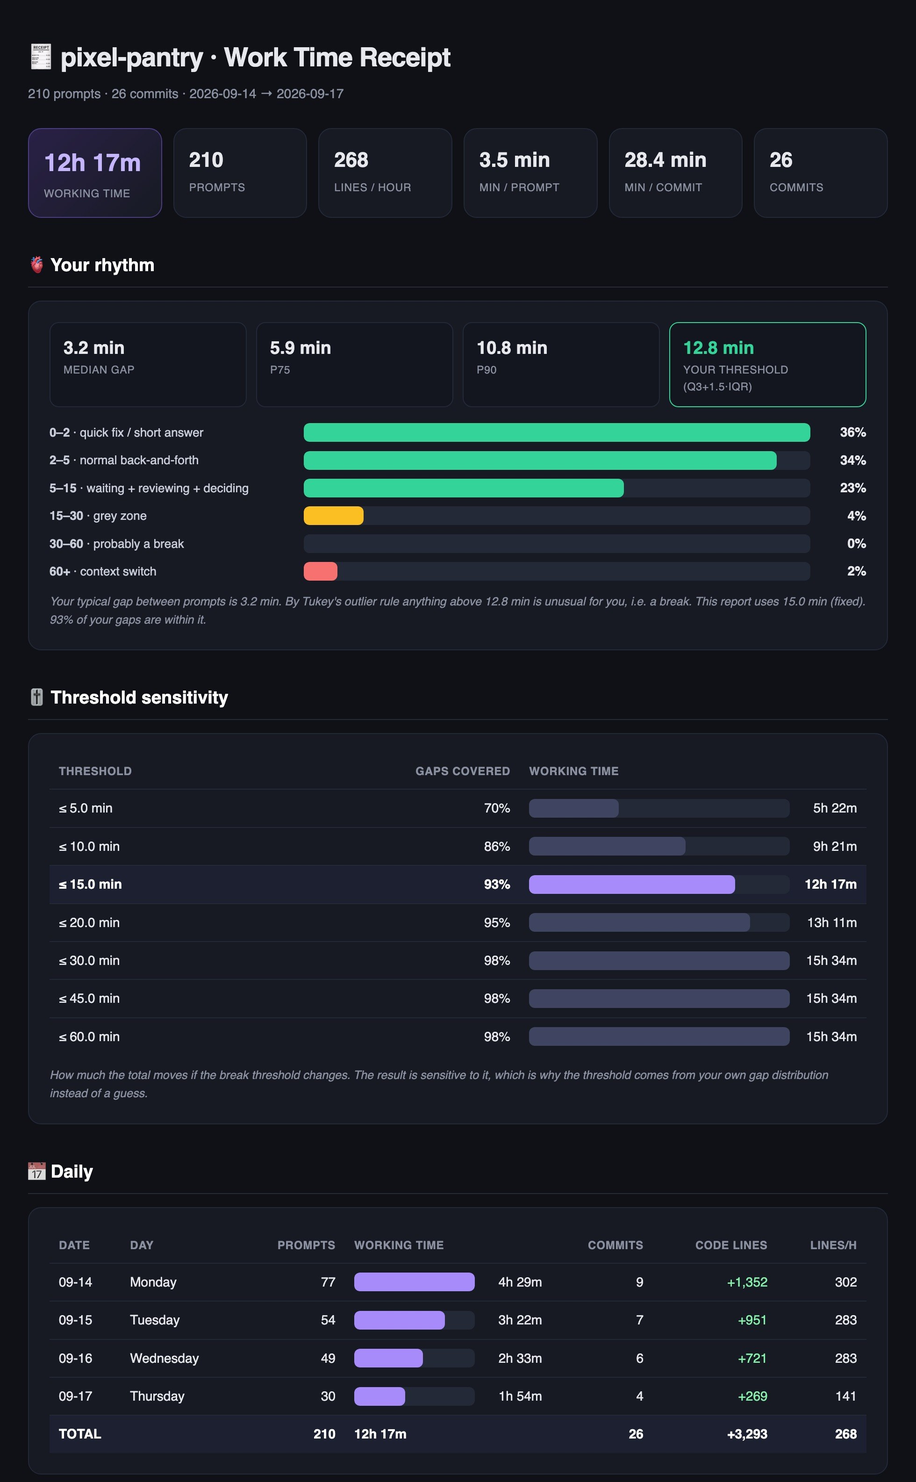
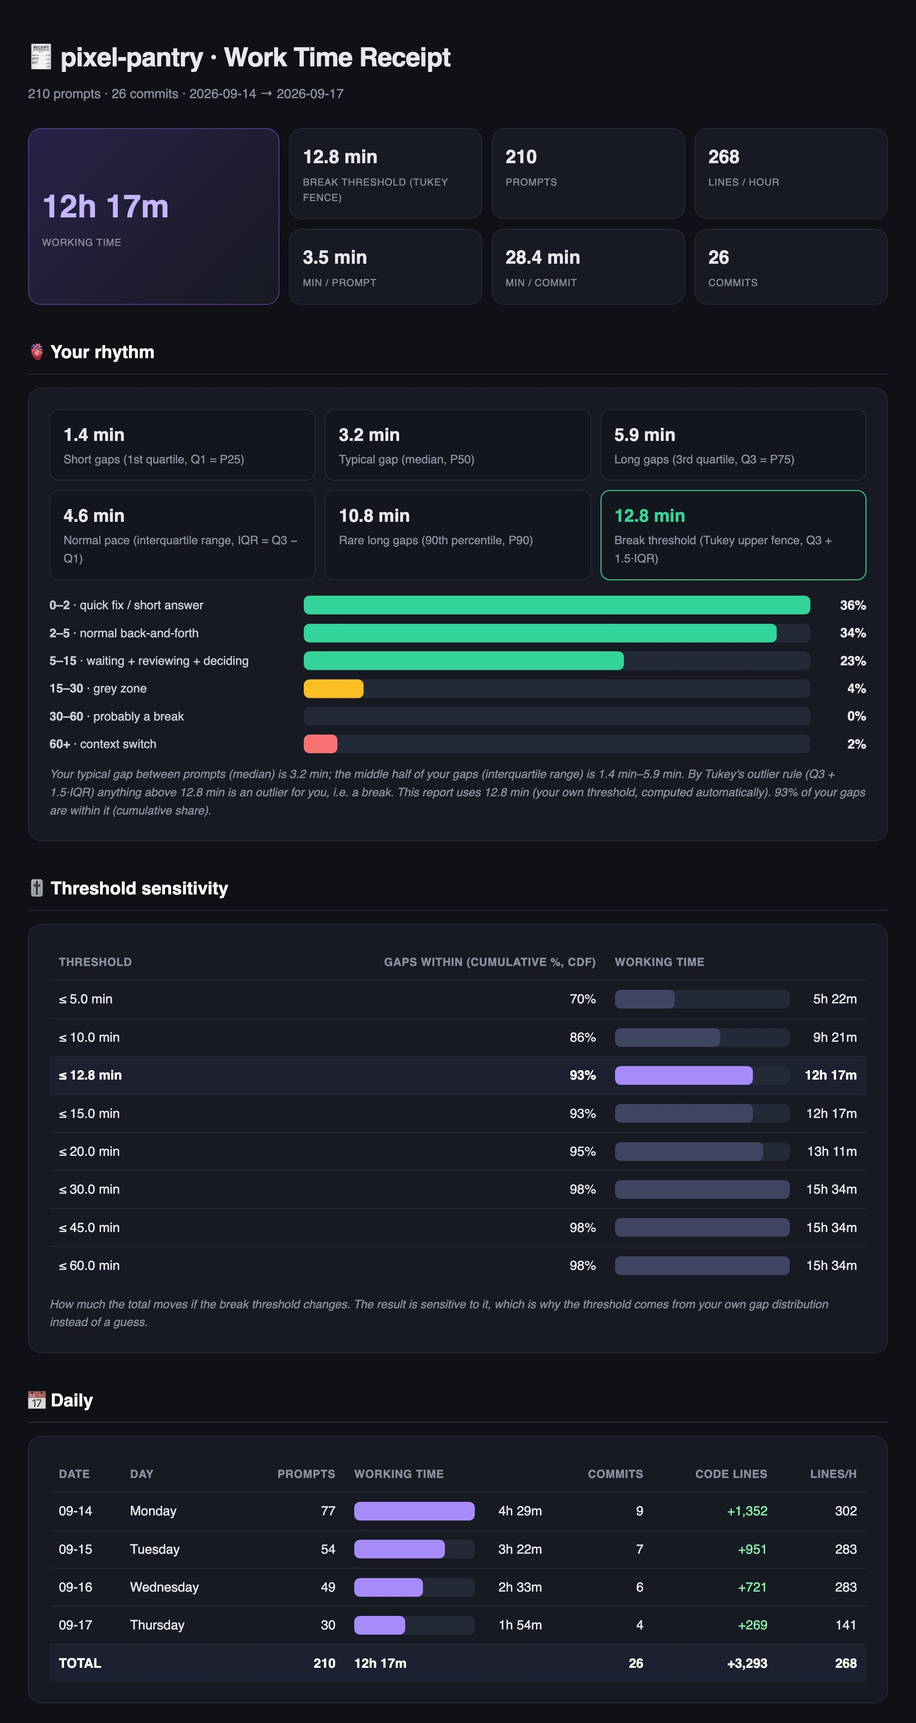
feat: compute the break threshold from the user's own rhythm
- default --idle is now automatic: Tukey upper fence (Q3 + 1.5·IQR) of the
  gaps between prompts; falls back to 15 min with fewer than 20 gaps
- report and console say which threshold was used and why, and print the
  sensitivity (5 → 60 min) so the user can pick another with --idle MIN
- every statistic is labelled with its mathematical name (median/P50,
  quartiles, IQR, P90, Tukey fence, CDF); skill instructed to do the same
- KPI layout: large working-time card + 3×2 grid

diff --git a/skills/vibe-receipts/scripts/receipts.py b/skills/vibe-receipts/scripts/receipts.py
@@ -2,19 +2,21 @@
 """vibe-receipts — how many hours did you really work on a git repo with Claude?
 
 Working time = sum of the gaps between YOUR consecutive prompts in Claude Code session
-logs (~/.claude/projects), where a gap of at most IDLE minutes (default 15) counts as work
-and anything longer is a break. Commits only add context (what got built). For repos with
+logs (~/.claude/projects). A gap up to your break threshold counts as work, anything longer
+is a break. By default the threshold is computed from your own gaps with Tukey's rule
+(Q3 + 1.5·IQR); pass --idle MIN to use a fixed one. Commits only add context (what got built). For repos with
 no session logs, a rough commit-gap estimate is used as a fallback.
 
 Usage:
   python3 receipts.py /path/to/repo
   python3 receipts.py /path/to/repo --since 2026-06-01 --until 2026-06-30
-  python3 receipts.py /path/to/repo --idle auto     # use your own Tukey threshold
+  python3 receipts.py /path/to/repo --idle 20       # fixed 20-minute break threshold
   python3 receipts.py /path/to/repo --lang tr       # Türkçe rapor
 """
 import argparse, datetime, glob, html, json, os, re, subprocess
 
-IDLE       = 15            # minutes: a gap between prompts up to this = work; above = break
+IDLE       = 15            # minutes: fallback threshold when there are too few gaps for Tukey
+MIN_GAPS   = 20            # fewer gaps than this = Tukey threshold is not reliable
 SENS       = [5,10,15,20,30,45,60]   # thresholds shown in the sensitivity table
 BANDS      = [(0,2),(2,5),(5,15),(15,30),(30,60),(60,None)]
 
@@ -48,11 +50,14 @@ L={
    title='Work Time Receipt',commits='commits',prompts='prompts',
    k_time='Working time',k_prompts='Prompts',k_lph='Lines / hour',k_mpp='Min / prompt',k_mpc='Min / commit',k_com='Commits',
    s_rhythm='🫀 Your rhythm',
-   r_med='Median gap',r_p75='P75',r_p90='P90',r_tukey='Your threshold (Q3+1.5·IQR)',
-   r_note='Your typical gap between prompts is {med}. By Tukey\'s outlier rule anything above {tukey} is unusual for you, i.e. a break. This report uses {idle} ({mode}). {pct}% of your gaps are within it.',
-   mode_fixed='fixed',mode_auto='your own threshold',
+   r_q1='Short gaps (1st quartile, Q1 = P25)',r_med='Typical gap (median, P50)',r_q3='Long gaps (3rd quartile, Q3 = P75)',
+   r_iqr='Normal pace (interquartile range, IQR = Q3 − Q1)',r_p90='Rare long gaps (90th percentile, P90)',
+   r_tukey='Break threshold (Tukey upper fence, Q3 + 1.5·IQR)',
+   r_note='Your typical gap between prompts (median) is {med}; the middle half of your gaps (interquartile range) is {q1}–{q3}. By Tukey\'s outlier rule (Q3 + 1.5·IQR) anything above {tukey} is an outlier for you, i.e. a break. This report uses {idle} ({mode}). {pct}% of your gaps are within it (cumulative share).',
+   mode_fixed='set by you',mode_auto='your own threshold, computed automatically',mode_few='default — too few prompts to compute your own',
+   k_thr='Break threshold (Tukey fence)',p_sens='Sensitivity',
    bands=['quick fix / short answer','normal back-and-forth','waiting + reviewing + deciding','grey zone','probably a break','context switch'],
-   s_sens='🎚 Threshold sensitivity',sens_c=['Threshold','Gaps covered','Working time'],
+   s_sens='🎚 Threshold sensitivity',sens_c=['Threshold','Gaps within (cumulative %, CDF)','Working time'],
    sens_note='How much the total moves if the break threshold changes. The result is sensitive to it, which is why the threshold comes from your own gap distribution instead of a guess.',
    s_daily='📅 Daily',c=['Date','Day','Prompts','Working time','Commits','Code lines','Lines/h'],tot='TOTAL',
    s_sum='📝 Daily commit log',
@@ -60,18 +65,21 @@ L={
    fb_note='Without session logs this is a rough estimate from gaps between commits (breaks >{b}m dropped) plus {r} min per effective added line. It tends to overestimate AI-heavy work.',
    k_est='Commit estimate',
    p_repo='Repo',p_range='Range',p_time='Working time',p_prompts='Prompts',p_commits='Commits',p_code='Effective code',p_lines='lines',
-   p_rhythm='Rhythm',p_est='Commit estimate (fallback)',p_none='No prompts in range — using the commit estimate.',
+   p_rhythm='Rhythm',rh='Q1 (1st quartile) {q1} · median (P50) {med} · Q3 (3rd quartile) {q3} · IQR (interquartile range) {iqr} · P90 {p90} · Tukey upper fence (Q3+1.5·IQR) {tk}  ({n} gaps)',p_est='Commit estimate (fallback)',p_none='No prompts in range — using the commit estimate.',
    e_none='No commits or prompts found in this range.'),
  'tr':dict(
    h='s',m='d',dow=['Pazartesi','Salı','Çarşamba','Perşembe','Cuma','Cumartesi','Pazar'],
    title='Çalışma Süresi Fişi',commits='commit',prompts='prompt',
    k_time='Çalışma süresi',k_prompts='Prompt',k_lph='Satır / saat',k_mpp='Dk / prompt',k_mpc='Dk / commit',k_com='Commit',
    s_rhythm='🫀 Çalışma ritmin',
-   r_med='Medyan aralık',r_p75='P75',r_p90='P90',r_tukey='Senin eşiğin (Q3+1,5·IQR)',
-   r_note='İki prompt arasındaki tipik aralığın {med}. Tukey aykırı değer kuralına göre {tukey} üstü senin için olağan dışı, yani mola. Bu rapor {idle} eşiğini kullanıyor ({mode}). Aralıklarının %{pct}\'i bu eşiğin içinde.',
-   mode_fixed='sabit',mode_auto='senin kendi eşiğin',
+   r_q1='Kısa aralıklar (1. çeyrek, Q1 = P25)',r_med='Tipik aralık (medyan / ortanca, P50)',r_q3='Uzun aralıklar (3. çeyrek, Q3 = P75)',
+   r_iqr='Normal tempo (çeyrekler arası aralık, IQR = Q3 − Q1)',r_p90='Nadir uzun aralıklar (90. yüzdelik, P90)',
+   r_tukey='Mola sınırı (Tukey üst çiti, Q3 + 1,5·IQR)',
+   r_note='İki prompt arasındaki tipik aralığın (medyan) {med}; aralıklarının ortadaki yarısı (çeyrekler arası aralık) {q1}–{q3}. Tukey aykırı değer kuralına göre (Q3 + 1,5·IQR) {tukey} üstü senin için aykırı değer, yani mola. Bu rapor {idle} eşiğini kullanıyor ({mode}). Aralıklarının %{pct}\'i bu eşiğin içinde (kümülatif oran).',
+   mode_fixed='senin seçtiğin',mode_auto='senin ritminden otomatik hesaplandı',mode_few='varsayılan — kendi eşiğini hesaplamak için prompt az',
+   k_thr='Mola sınırı (Tukey çiti)',p_sens='Duyarlılık',
    bands=['hızlı düzeltme / kısa cevap','normal etkileşim','bekleme + inceleme + karar','gri bölge','muhtemel mola','bağlam kopması'],
-   s_sens='🎚 Eşik duyarlılığı',sens_c=['Eşik','Kapsanan aralık','Çalışma süresi'],
+   s_sens='🎚 Eşik duyarlılığı',sens_c=['Eşik','Eşik altındaki aralıklar (kümülatif %, CDF)','Çalışma süresi'],
    sens_note='Mola eşiği değişirse toplam ne kadar oynar. Sonuç eşiğe hassas; bu yüzden eşik tahminle değil, senin kendi aralık dağılımından seçiliyor.',
    s_daily='📅 Günlük',c=['Tarih','Gün','Prompt','Çalışma','Commit','Kod satırı','Satır/s'],tot='TOPLAM',
    s_sum='📝 Günlük commit özeti',
@@ -79,7 +87,7 @@ L={
    fb_note='Oturum kaydı olmadığı için bu, commit\'ler arası süreden (>{b}dk molalar atılır) ve eklenen her etkin satıra {r} dk eklenerek yapılan kaba bir tahmin. AI ağırlıklı işte fazla gösterme eğilimindedir.',
    k_est='Commit tahmini',
    p_repo='Repo',p_range='Aralık',p_time='Çalışma süresi',p_prompts='Prompt',p_commits='Commit',p_code='Etkin kod',p_lines='satır',
-   p_rhythm='Ritim',p_est='Commit tahmini (yedek)',p_none='Aralıkta prompt yok — commit tahmini kullanılıyor.',
+   p_rhythm='Ritim',rh='Q1 (1. çeyrek) {q1} · medyan (P50) {med} · Q3 (3. çeyrek) {q3} · IQR (çeyrekler arası aralık) {iqr} · P90 {p90} · Tukey üst çiti (Q3+1,5·IQR) {tk}  ({n} aralık)',p_est='Commit tahmini (yedek)',p_none='Aralıkta prompt yok — commit tahmini kullanılıyor.',
    e_none='Bu aralıkta commit ya da prompt bulunamadı.'),
 }
 
@@ -175,7 +183,7 @@ def main():
     ap.add_argument('--until',default='9999-99-99',help='last day YYYY-MM-DD')
     ap.add_argument('--author',help='only commits by this author (git --author pattern)')
     ap.add_argument('--transcripts',action='append',help='Claude log folder (overrides auto-detection, repeatable)')
-    ap.add_argument('--idle',default=str(IDLE),help=f'break threshold in minutes, or "auto" for your own Tukey threshold (default {IDLE})')
+    ap.add_argument('--idle',default='auto',help='break threshold in minutes; default "auto" = your own Tukey threshold (Q3+1.5·IQR)')
     ap.add_argument('--lang',choices=sorted(L),default=default_lang(),help='report language (default: from $LANG, else en)')
     ap.add_argument('--name',help='project name shown in the report (default: repo folder name)')
     ap.add_argument('--out',default=os.path.expanduser('~/vibe-receipts'),help='output folder (default ~/vibe-receipts)')
@@ -199,8 +207,9 @@ def main():
     gaps=sorted((prompts[i]-prompts[i-1])/60 for i in range(1,len(prompts)))
     med,q1,q3,p90=pctl(gaps,50),pctl(gaps,25),pctl(gaps,75),pctl(gaps,90)
     tukey=q3+1.5*(q3-q1)
-    auto=a.idle.strip().lower()=='auto'
-    idle=(round(tukey,1) if gaps else IDLE) if auto else float(a.idle)
+    if a.idle.strip().lower()!='auto': mode,idle='fixed',float(a.idle)
+    elif len(gaps)>=MIN_GAPS:          mode,idle='auto',round(tukey,1)
+    else:                              mode,idle='few',float(IDLE)
 
     def active(thr):
         tot=0; per={}
@@ -242,8 +251,10 @@ def main():
     print(f"{T['p_repo']:<15}: {repo}")
     print(f"{T['p_range']:<15}: {d0} → {d1}")
     if has_p:
-        print(f"{T['p_time']:<15}: {hm(work)}   ({len(prompts)} {T['prompts']}, idle {idle:g}m, {len(dirs)} dir)")
-        print(f"{T['p_rhythm']:<15}: median {med:.1f}m · P75 {q3:.1f}m · P90 {p90:.1f}m · tukey {tukey:.1f}m")
+        print(f"{T['p_time']:<15}: {hm(work)}   ({len(prompts)} {T['prompts']}, {len(dirs)} dir)")
+        print(f"{T['k_thr']}: {mins(idle)}   ({T['mode_'+mode]})")
+        print(f"{T['p_rhythm']:<15}: "+T['rh'].format(q1=mins(q1),med=mins(med),q3=mins(q3),iqr=mins(q3-q1),p90=mins(p90),tk=mins(tukey),n=len(gaps)))
+        print(f"{T['p_sens']:<15}: "+' · '.join(f"{mins(t)} → {hm(active(t)[0])}" for t in sorted(set(SENS+[idle]))))
     else:
         print(T['p_none'])
         print(f"{T['p_est']:<15}: {hm(est)}")
@@ -258,7 +269,7 @@ def main():
     sub=(f'{len(prompts):,} {T["prompts"]} · ' if has_p else '')+f'{len(commits)} {T["commits"]} · {d0} → {d1}'
     P.append(f'<header><h1>🧾 {e(name)} · {T["title"]}</h1><div class="sub">{sub}</div></header>')
     if has_p:
-        K=[(hm(work),T['k_time'],1),(f'{len(prompts):,}',T['k_prompts'],0),(f'{lph:,.0f}',T['k_lph'],0),
+        K=[(hm(work),T['k_time'],1),(mins(idle),T['k_thr'],0),(f'{len(prompts):,}',T['k_prompts'],0),(f'{lph:,.0f}',T['k_lph'],0),
            (mins(mpp),T['k_mpp'],0),(mins(mpc) if commits else '—',T['k_mpc'],0),(str(len(commits)),T['k_com'],0)]
     else:
         K=[(hm(est),T['k_est'],1),(f'{lph:,.0f}',T['k_lph'],0),(mins(mpc),T['k_mpc'],0),(str(len(commits)),T['k_com'],0)]
@@ -268,13 +279,13 @@ def main():
         within=100*sum(1 for g in gaps if g<=idle)/len(gaps)
         P.append(f'<h2>{T["s_rhythm"]}</h2><div class="card">')
         P.append('<div class="stats">'+''.join(f'<div class="st{" hi" if hi else ""}"><div class="v">{mins(v)}</div><div class="l">{l}</div></div>'
-                 for v,l,hi in [(med,T['r_med'],0),(q3,T['r_p75'],0),(p90,T['r_p90'],0),(tukey,T['r_tukey'],1)])+'</div>')
+                 for v,l,hi in [(q1,T['r_q1'],0),(med,T['r_med'],0),(q3,T['r_q3'],0),(q3-q1,T['r_iqr'],0),(p90,T['r_p90'],0),(tukey,T['r_tukey'],1)])+'</div>')
         cnt=[sum(1 for g in gaps if lo<=g<(hi if hi is not None else 1e18)) for lo,hi in BANDS]
         cols=['#34d399','#34d399','#34d399','#fbbf24','#f87171','#f87171']
         for (lo,hi),n,lbl,col in zip(BANDS,cnt,T['bands'],cols):
             rng=f'{lo}–{hi}' if hi is not None else f'{lo}+'
             P.append(f'<div class="scn"><div class="nm"><b>{rng}</b> · {lbl}</div>{bar(n,max(cnt),col)}<div class="vl">{100*n/len(gaps):.0f}%</div></div>')
-        P.append(f'<div class="note">{e(T["r_note"].format(med=mins(med),tukey=mins(tukey),idle=mins(idle),mode=T["mode_auto"] if auto else T["mode_fixed"],pct=f"{within:.0f}"))}</div></div>')
+        P.append(f'<div class="note">{e(T["r_note"].format(q1=mins(q1),q3=mins(q3),med=mins(med),tukey=mins(tukey),idle=mins(idle),mode=T["mode_"+mode],pct=f"{within:.0f}"))}</div></div>')
 
         P.append(f'<h2>{T["s_sens"]}</h2><div class="card"><table>')
         C=T['sens_c']; P.append(f'<tr><th>{C[0]}</th><th class="r">{C[1]}</th><th>{C[2]}</th></tr>')
@@ -325,13 +336,13 @@ body{font-family:-apple-system,'Segoe UI',Roboto,sans-serif;background:#0f1117;c
 h1{font-size:28px;font-weight:800;letter-spacing:-.5px}
 h2{font-size:19px;margin:36px 0 14px;padding-bottom:8px;border-bottom:1px solid #272b36;color:#fff}
 .sub{color:#8b90a0;margin-top:6px;font-size:14px}
-.kpis{display:grid;grid-template-columns:repeat(auto-fit,minmax(130px,1fr));gap:12px;margin-top:26px}
-.kpi{background:#171a23;border:1px solid #242938;border-radius:14px;padding:16px}
-.kpi .v{font-size:22px;font-weight:800;color:#e6e8ee}.kpi .l{font-size:11.5px;color:#8b90a0;margin-top:4px;text-transform:uppercase;letter-spacing:.5px}
-.kpi.hero{background:linear-gradient(135deg,#2a2147,#171a23);border-color:#4c3d85}.kpi.hero .v{color:#c4b5fd;font-size:26px}
+.kpis{display:grid;grid-template-columns:1.3fr repeat(3,1fr);gap:10px;margin-top:26px}
+.kpi{background:#171a23;border:1px solid #242938;border-radius:14px;padding:14px}
+.kpi .v{font-size:20px;font-weight:800;color:#e6e8ee}.kpi .l{font-size:10.5px;color:#8b90a0;margin-top:4px;text-transform:uppercase;letter-spacing:.5px}
+.kpi.hero{background:linear-gradient(135deg,#2a2147,#171a23);border-color:#4c3d85}.kpi.hero{grid-row:span 2;display:flex;flex-direction:column;justify-content:center}.kpi.hero .v{color:#c4b5fd;font-size:34px}.kpi .v{white-space:nowrap}
 .card{background:#171a23;border:1px solid #242938;border-radius:14px;padding:22px;margin-top:14px}
-.stats{display:grid;grid-template-columns:repeat(auto-fit,minmax(150px,1fr));gap:10px;margin-bottom:16px}
-.st{background:#13161f;border:1px solid #242938;border-radius:10px;padding:12px 14px}.st .v{font-size:19px;font-weight:800}.st .l{font-size:11.5px;color:#8b90a0;text-transform:uppercase;letter-spacing:.4px}
+.stats{display:grid;grid-template-columns:repeat(auto-fit,minmax(240px,1fr));gap:10px;margin-bottom:16px}
+.st{background:#13161f;border:1px solid #242938;border-radius:10px;padding:12px 14px}.st .v{font-size:19px;font-weight:800}.st .l{font-size:12.5px;color:#8b90a0;margin-top:2px}
 .st.hi{border-color:#34d399}.st.hi .v{color:#34d399}
 .scroll{overflow-x:auto}
 table{width:100%;border-collapse:collapse;font-size:14px}
@@ -347,7 +358,7 @@ tr.sel td{color:#fff;font-weight:700;background:#1c2030}
 .dayblk h3{font-size:15px;color:#fff;display:flex;justify-content:space-between}.dayblk h3 .hrs{font-size:13px;color:#a78bfa;font-weight:700}
 .dayblk ul{margin:8px 0 0 18px}.dayblk li{font-size:13.5px;color:#aeb3c2;margin:5px 0}
 .foot{text-align:center;color:#5d6273;font-size:12px;margin-top:38px}
-@media (max-width:600px){.scn .nm{width:150px}}"""
+@media (max-width:600px){.scn .nm{width:150px}.kpis{grid-template-columns:1fr 1fr}.kpi.hero{grid-row:auto;grid-column:span 2}}"""
 
 if __name__=='__main__':
     main()

diff --git a/skills/vibe-receipts/SKILL.md b/skills/vibe-receipts/SKILL.md
@@ -10,9 +10,13 @@ Measures working time on a git repo from the user's own prompts in Claude Code s
 
 - **Prompts** = messages the user typed + answers to `AskUserQuestion`. Claude replies, tool results,
   subagent traffic, compaction summaries and system/IDE injections are excluded.
-- **Working time** = sum of gaps between consecutive prompts that are ≤ 15 min (longer = break).
-- The report also shows the user's rhythm (median / P75 / P90 gap) and their personal threshold
-  by Tukey's rule (Q3 + 1.5·IQR), plus a threshold-sensitivity table.
+- **Working time** = sum of gaps between consecutive prompts that are ≤ the break threshold
+  (longer = break).
+- **Break threshold** is computed automatically from the user's own gaps with Tukey's rule:
+  `Q3 + 1.5 × IQR` (Q1/Q3 = 25th/75th percentile of the gaps, IQR = Q3 − Q1). With fewer than
+  20 gaps it falls back to 15 min. The user can override it with `--idle MIN`.
+- The report shows the rhythm (Q1 / median / Q3 / P90), the threshold used and why, and a
+  threshold-sensitivity table.
 - Commits only add context: lines of code, lines/hour, minutes/commit, a daily commit log.
 - With no session logs, it falls back to a rough commit-gap estimate (clearly labelled).
 
@@ -21,7 +25,7 @@ Measures working time on a git repo from the user's own prompts in Claude Code s
 The script lives next to this file: `scripts/receipts.py` (Python 3 stdlib only).
 
 ```bash
-python3 <this-skill-dir>/scripts/receipts.py <repo-path> [--since YYYY-MM-DD] [--until YYYY-MM-DD] [--author PATTERN] [--idle MIN|auto] [--lang en|tr]
+python3 <this-skill-dir>/scripts/receipts.py <repo-path> [--since YYYY-MM-DD] [--until YYYY-MM-DD] [--author PATTERN] [--idle MIN] [--lang en|tr]
 ```
 
 - `<repo-path>`: default to the current working directory if the user did not name a repo.
@@ -30,8 +34,8 @@ python3 <this-skill-dir>/scripts/receipts.py <repo-path> [--since YYYY-MM-DD] [-
 - Reports go to `~/vibe-receipts/` (`<repo>-report.html` + `<repo>-daily.csv`). Never write them
   inside the analysed repo, and never commit them anywhere — they are personal work data.
 - `--lang tr` when the user writes in Turkish, otherwise `--lang en`.
-- `--idle auto` uses the user's own Tukey threshold instead of 15 min. Offer it when their threshold
-  (printed on the `Rhythm` line) is far from 15, e.g. long autonomous Claude runs between prompts.
+- Leave `--idle` out by default (automatic threshold). Pass `--idle MIN` only when the user asks for
+  a specific threshold ("recalculate with 20 minutes", "15 dk ile hesapla"); re-run and compare.
 - If the same repo lives in two folders (two clones, or a moved folder), pass every matching
   `~/.claude/projects/...` folder with repeated `--transcripts`.
 
@@ -41,11 +45,31 @@ After running, read the printed summary and the CSV, then answer in the user's l
 
 - **The headline number first:** working time from prompts (or say clearly it is the commit
   fallback when there were no session logs).
-- Range, prompt and commit counts, and their rhythm: median gap and personal threshold. If the
-  threshold is far from 15 min, mention how much `--idle auto` would change the total.
+- **The break threshold, always.** Read the `Break threshold` / `Mola sınırı` line: say the value and
+  how it was set (computed from their rhythm / set by them / default because too few prompts).
+  Explain it in one plain sentence from the `Rhythm` line, e.g. "half of your gaps are between
+  Q1 and Q3 min; a gap longer than Q3 + 1.5 × that range is unusual for you, so it counts as a break".
+- Show 2–3 alternatives from the `Sensitivity` line (e.g. 10 / 15 / 30 min) and offer to recompute
+  with any threshold they choose.
+- Range, prompt and commit counts.
 - The busiest days (from the CSV), and a short summary of what was done per day based on the
   commit subjects (`git -C <repo> log --since ... --until ... --pretty='%ad %s' --date=short`).
 - The path to the HTML report, and open it if the environment can show files.
+
+## Name things twice: plain words + the math term
+
+Whenever you mention a statistic, give the everyday meaning and its mathematical name together, in
+the user's language, e.g.:
+
+| Plain | Math term (EN) | Math term (TR) |
+|---|---|---|
+| typical gap | median, P50 | medyan / ortanca, P50 |
+| short gaps / long gaps | 1st / 3rd quartile, Q1 = P25 / Q3 = P75 | 1. / 3. çeyrek |
+| normal pace (middle half of gaps) | interquartile range, IQR = Q3 − Q1 | çeyrekler arası aralık |
+| rare long gaps | 90th percentile, P90 | 90. yüzdelik |
+| break threshold | Tukey upper fence, Q3 + 1.5·IQR | Tukey üst çiti |
+| a break | outlier | aykırı değer |
+| share of gaps under a threshold | cumulative distribution (CDF) | kümülatif dağılım |
 
 ## Caveats to mention when relevant
 

diff --git a/README.md b/README.md
@@ -48,7 +48,8 @@ the records **you** put in:
 Claude's replies, tool calls and results, subagent traffic, compaction summaries, IDE/system
 injections, background-task notifications and "interrupted" markers are **not** prompts.
 
-Then: if the gap between two consecutive prompts is **≤ 15 min**, it counts as work. In AI-assisted
+Then: if the gap between two consecutive prompts is **within your break threshold** (below), it
+counts as work. In AI-assisted
 coding, waiting for Claude, reviewing its output and deciding what to ask next *is* the work.
 A longer gap is a break and is dropped.
 
@@ -56,19 +57,30 @@ A longer gap is a break and is dropped.
 10:00  you: "add auth"           
 10:03  you: "use magic links"    → +3 min
 10:09  you: answer to a question → +6 min
-10:51  you: "now the tests"      → 42 min gap > 15 → break, not counted
+10:51  you: "now the tests"      → 42 min gap > threshold → break, not counted
 10:54  you: "fix the flaky one"  → +3 min
                                    = 12 min
 ```
 
-### Why 15 minutes? Your rhythm decides
-The threshold is not a guess. The report shows the distribution of your gaps between prompts
-(median, P75, P90) and **your own threshold** by Tukey's outlier rule, `Q3 + 1.5 × IQR`:
-anything above it is unusual *for you*. On the project this tool was built on, 424 gaps had a
-median of 3.2 min and a Tukey limit of **15.2 min**; 87 % of gaps were within 15 min.
+### The break threshold is yours, computed from your rhythm
+How long a pause still counts as work differs per person and per project. So the threshold is
+not hard-coded: vibe-receipts takes every gap between your prompts and applies **Tukey's outlier
+rule**, the same rule box plots use:
 
-A sensitivity table shows how much the total moves if the threshold changes, so you can see the
-choice is not hiding anything. Use `--idle auto` to compute with your own threshold instead of 15.
+```
+Q1, Q3   = 25th and 75th percentile of your gaps    ← the middle half: your normal pace
+IQR      = Q3 − Q1
+threshold = Q3 + 1.5 × IQR                          ← beyond this is unusual for you = a break
+```
+
+Example: Q1 = 1.3 min, Q3 = 6.5 min → IQR = 5.2 → threshold = 6.5 + 1.5 × 5.2 = **14.3 min**.
+A project where Claude runs long autonomous tasks between your prompts gets a higher threshold
+(40+ min), because long waits are normal there.
+
+The report tells you which threshold it used and why, and shows a sensitivity table (5 → 60 min)
+so you can see how much the total moves. Want a different one? `--idle 20` (or just ask Claude:
+*"recalculate with 20 minutes"*). With fewer than 20 gaps there is not enough data, so it falls
+back to 15 min and says so.
 
 ### Commits add context
 Commits don't decide the hours. They give the report its "what got built" side: commit count,
@@ -91,12 +103,12 @@ to overestimate AI-heavy work, because Claude writes many lines fast.
 | `--since / --until` | day range `YYYY-MM-DD`, applied to both prompts and commits |
 | `--author` | only this author's commits (`git log --author` pattern) |
 | `--transcripts DIR` | Claude log folder, overrides auto-detection (repeatable, e.g. for a repo cloned in two places) |
-| `--idle MIN\|auto` | break threshold in minutes (default 15), or `auto` for your own Tukey threshold |
+| `--idle MIN` | fixed break threshold in minutes (default: computed from your rhythm) |
 | `--lang en\|tr` | report language (default: from `$LANG`, else English) |
 | `--name` | project name shown in the report |
 | `--out DIR` | output folder (default `~/vibe-receipts`) |
 
-Constants at the top of `receipts.py`: `IDLE`, `SENS` (thresholds in the sensitivity table),
+Constants at the top of `receipts.py`: `IDLE` (fallback threshold), `MIN_GAPS`, `SENS` (thresholds in the sensitivity table),
 `CODE_W`, `VENDOR_RE` / `GEN_RE` (excluded file patterns), and `BREAK` / `CODE_RATE` for the
 fallback estimate.
 
